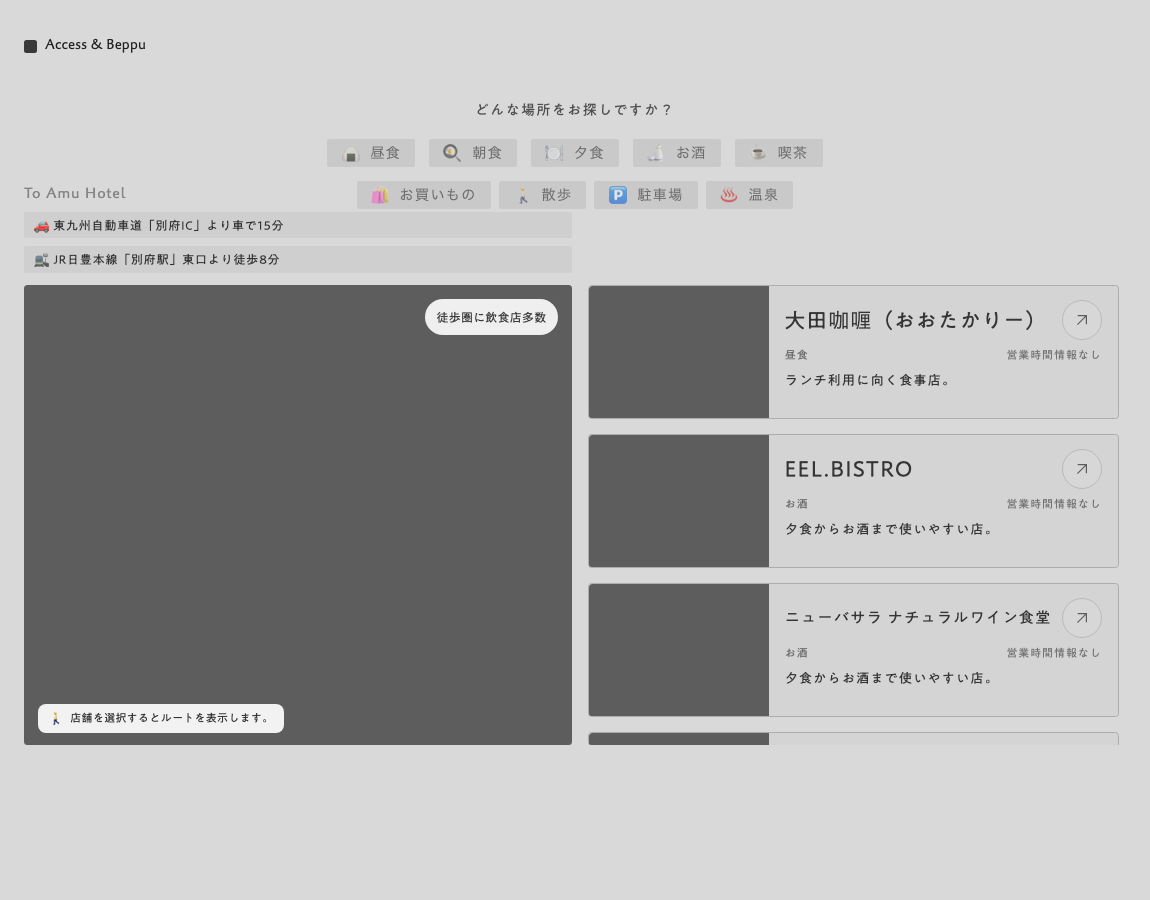
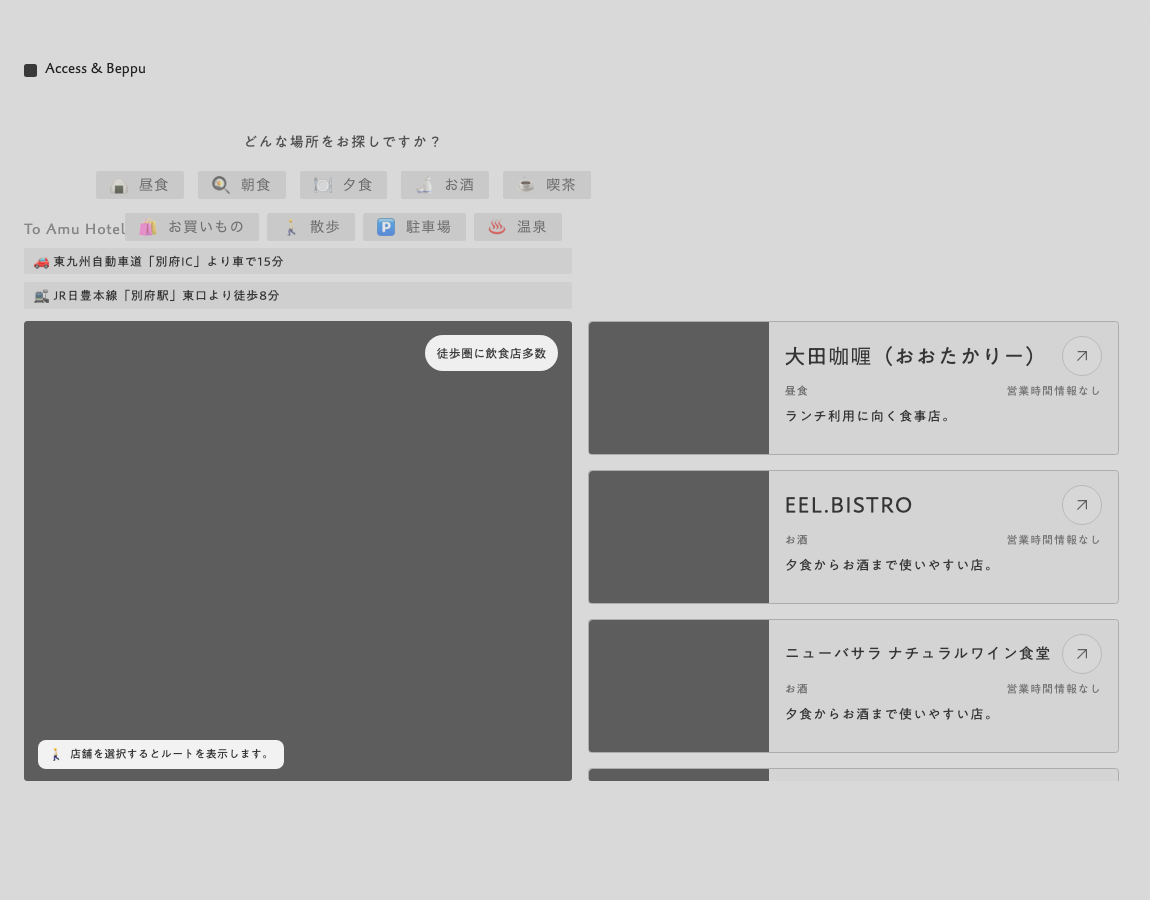
3

diff --git a/public/access-beppu-map.html b/public/access-beppu-map.html
@@ -1209,19 +1209,19 @@
   @media (max-width: 1200px) {
     .ab-heading {
       left: 24px;
-      top: 50px;
+      top: 62px;
     }
 
     .ab-filters {
       left: 24px;
       right: 24px;
-      top: 110px;
+      top: 128px;
       width: auto;
       justify-items: center;
     }
 
     .ab-padding-wrapper {
-      padding: 204px 24px 0 24px;
+      padding: 222px 24px 0 24px;
     }
 
     .ab-content {
